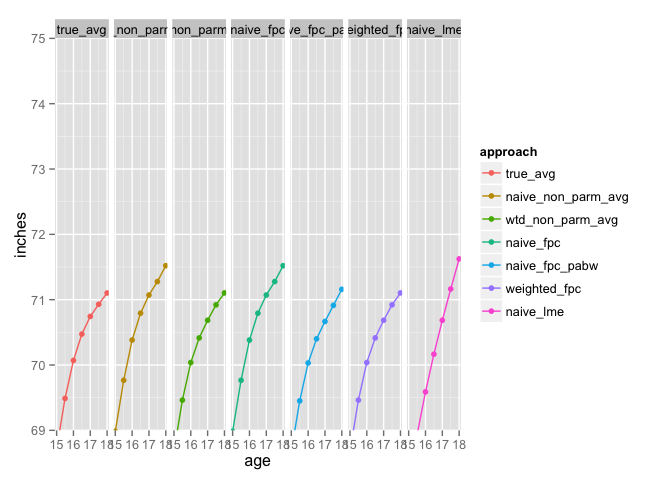
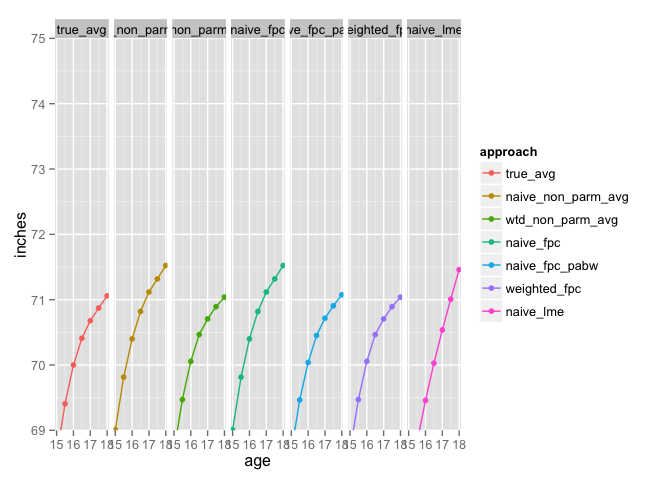
readme after long hiatus

diff --git a/readMe.md b/readMe.md
@@ -1,6 +1,6 @@
 # wfpca:  Weighted Functional Prinicpal Components Analysis
 Bruce Swihart  
-September 12, 2014  
+January 10, 2015  
 
 
 
@@ -129,9 +129,9 @@ round(results,2)
 
 ```
 ##   naive_non_parm_avg wtd_non_parm_avg naive_fpc naive_fpc_pabw
-## 1               0.18             0.03      0.18           0.04
+## 1               0.26             0.05      0.26           0.05
 ##   weighted_fpc naive_lme
-## 1         0.03      0.37
+## 1         0.05      0.38
 ```
 
 
